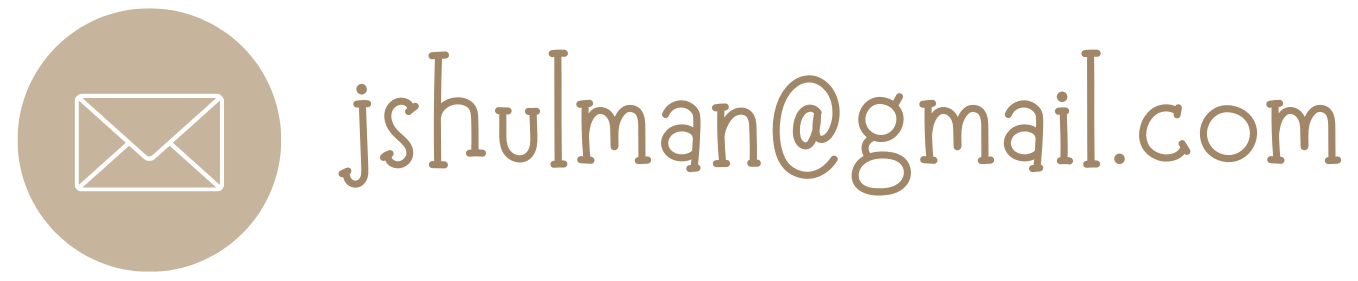
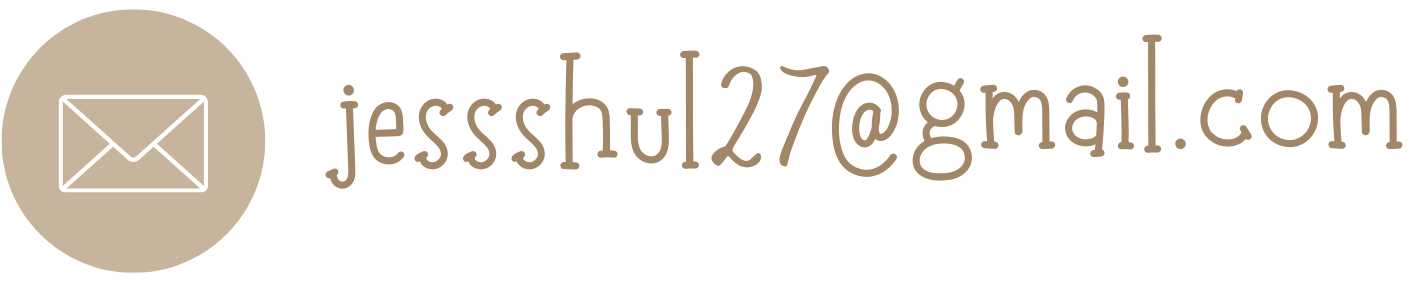
7/14 2AM

Changed region(s): [[0.0, 0.0285, 0.9897, 0.968]]

diff --git a/app/(root)/contact/page.tsx b/app/(root)/contact/page.tsx
@@ -1,19 +1,27 @@
 "use client";
 import Navbar from "@/components/Navbar/Navbar";
 import Image from "next/image";
-import React, { useEffect, useRef, useState, memo } from "react";
+import React, {
+  useEffect,
+  useRef,
+  useState,
+  memo,
+  forwardRef,
+  LegacyRef,
+} from "react";
 import appData from "../../../app-data.json";
 import "./contact.css";
 
-const SVGAnimation = memo(() => {
-  const htmlContent = `
+const SVGAnimation = memo(
+  forwardRef((props, ref) => {
+    const htmlContent = `
   <?xml version="1.0" encoding="UTF-8" standalone="no"?>
 <!DOCTYPE svg PUBLIC "-//W3C//DTD SVG 1.1//EN" "http://www.w3.org/Graphics/SVG/1.1/DTD/svg11.dtd">
 <svg class="hi_there" height="100%" stroke-miterlimit="10" style="fill-rule:nonzero;clip-rule:evenodd;stroke-linecap:round;stroke-linejoin:round;" version="1.1" viewBox="0 0 5000 5000" width="100%" xml:space="preserve" xmlns="http://www.w3.org/2000/svg" xmlns:vectornator="http://vectornator.io" xmlns:xlink="http://www.w3.org/1999/xlink">
 <defs/>
 <g id="Layer-1" vectornator:layerName="Layer 1">
 <path id="svg_hi" d="M245.343 2480.88C245.343 2480.88 414.584 2240.8 481.391 2083.67C548.199 1926.54 527.84 1851.55 512.792 1840.99C497.743 1830.42 414.101 1806.2 296.633 2194.79C231.114 2411.54 234.237 2703.69 234.237 2703.69C234.237 2703.69 328.088 2349.14 473.212 2348.19C618.337 2347.25 412.404 2703.93 599.315 2718.15C658.82 2722.68 743.713 2688.65 818.725 2583.34C891.648 2480.96 913.379 2315.81 913.379 2315.81C913.379 2315.81 871.372 2480.6 888.465 2594.85C900.726 2676.8 956.039 2723.31 1020.41 2708.19C1174.52 2671.99 1266.39 2493.91 1266.39 2493.91" fill="none" opacity="1" stroke="#ffffff" stroke-linecap="round" stroke-linejoin="round" stroke-width="45" vectornator:layerName="Line 1"/>
-<path id="svg_there" d="M1764.67 2483.79C1764.67 2483.79 1949.34 2233.27 2012.59 2071.63C2075.85 1909.99 2061.17 1824.62 2012.07 1833.3C1962.97 1841.99 1858.66 2045.56 1801.86 2284.7C1745.07 2523.84 1738.91 2714.24 1879.4 2710.04C2048.88 2704.98 2233.56 2355.09 2322.21 2198.45C2432.38 2003.78 2453.67 1853.29 2403.73 1836.13C2353.79 1818.98 2267.93 1951.27 2192.83 2220.81C2117.72 2490.34 2134.57 2705.18 2134.57 2705.18C2134.57 2705.18 2231.46 2335.88 2377.5 2349.37C2523.53 2362.86 2312.33 2690.29 2487.3 2715.56C2662.28 2740.83 2766.96 2497.14 2789.1 2446.95C2798.52 2425.59 2850.47 2327.55 2952 2332.44C3033.91 2336.38 3097.04 2432.76 2983.67 2494.31C2918.26 2529.82 2863.22 2490.65 2863.22 2490.65C2863.22 2490.65 2916.16 2525.7 2981.1 2499.71C3028.79 2480.62 3105.1 2368.17 2959.13 2335.37C2899.06 2321.87 2815.86 2397.27 2786.95 2456.17C2766.6 2497.63 2698.4 2716.49 2999.7 2710.27C3132.65 2707.52 3317.23 2539.32 3319.98 2342.66C3320.74 2288.84 3349.04 2327.46 3406.33 2337.67C3463.62 2347.87 3494.92 2326.89 3475.26 2362.49C3453.17 2402.49 3391.29 2470.32 3378.85 2529.65C3353.84 2648.92 3424.85 2727.98 3511.19 2703.48C3597.54 2678.98 3693.55 2570.41 3748.03 2431.71C3765.36 2387.59 3829.87 2316.86 3906.5 2323.5C3983.13 2330.14 4047.27 2410.14 3949.33 2480.36C3882.05 2528.59 3820.78 2482.4 3820.78 2482.4C3820.78 2482.4 3886.09 2530.02 3949.96 2477.32C4084.82 2366.05 3906.66 2322.28 3906.66 2322.28C3818.81 2323.66 31060.99 2390.04 3753.17 2422.12C3715.58 2503.47 3680.02 2661.41 3881.73 2704.95C4095.37 2751.06 4248.9 2495.81 4248.9 2495.81" fill="none" opacity="1" stroke="#ffffff" stroke-linecap="round" stroke-linejoin="round" stroke-width="45" vectornator:layerName="Line 3"/>
+<path id="svg_there" d="M1764.67 2483.79C1764.67 2483.79 1949.34 2233.27 2012.59 2071.63C2075.85 1909.99 2061.17 1824.62 2012.07 1833.3C1962.97 1841.99 1858.66 2045.56 1801.86 2284.7C1745.07 2523.84 1738.91 2714.24 1879.4 2710.04C2048.88 2704.98 2233.56 2355.09 2322.21 2198.45C2432.38 2003.78 2453.67 1853.29 2403.73 1836.13C2353.79 1818.98 2267.93 1951.27 2192.83 2220.81C2117.72 2490.34 2134.57 2705.18 2134.57 2705.18C2134.57 2705.18 2231.46 2335.88 2377.5 2349.37C2523.53 2362.86 2312.33 2690.29 2487.3 2715.56C2662.28 2740.83 2766.96 2497.14 2789.1 2446.95C2798.52 2425.59 2850.47 2327.55 2952 2332.44C3033.91 2336.38 3097.04 2432.76 2983.67 2494.31C2918.26 2529.82 2863.22 2490.65 2863.22 2490.65C2863.22 2490.65 2916.16 2525.7 2981.1 2499.71C3028.79 2480.62 3105.1 2368.17 2959.13 2335.37C2899.06 2321.87 2815.86 2397.27 2786.95 2456.17C2766.6 2497.63 2698.4 2716.49 2999.7 2710.27C3132.65 2707.52 3317.23 2539.32 3319.98 2342.66C3320.74 2288.84 3349.04 2327.46 3406.33 2337.67C3463.62 2347.87 3494.92 2326.89 3475.26 2362.49C3453.17 2402.49 3391.29 2470.32 3378.85 2529.65C3353.84 2648.92 3424.85 2727.98 3511.19 2703.48C3597.54 2678.98 3693.55 2570.41 3748.03 2431.71C3765.36 2387.59 3829.87 2316.86 3906.5 2323.5C3983.13 2330.14 4047.27 2410.14 3949.33 2480.36C3882.05 2528.59 3820.78 2482.4 3820.78 2482.4C3820.78 2482.4 3886.09 2530.02 3949.96 2477.32C4084.82 2366.05 3906.66 2322.28 3906.66 2322.28C3818.81 2323.66 3767.99 2390.04 3753.17 2422.12C3715.58 2503.47 3680.02 2661.41 3881.73 2704.95C4095.37 2751.06 4248.9 2495.81 4248.9 2495.81" fill="none" opacity="1" stroke="#ffffff" stroke-linecap="round" stroke-linejoin="round" stroke-width="45" vectornator:layerName="Line 3"/>
 
 <path id="svg_i" d="M932.008 2195.15C932.008 2195.15 938.94 2179.88 935.365 2176.77C933.457 2175.11 914.548 2184.19 913.869 2195.21C913.484 2201.46 929.104 2198.49 929.104 2198.49" fill="none" opacity="1" stroke="#ffffff" stroke-linecap="round" stroke-linejoin="round" stroke-width="45" vectornator:layerName="Line 2"/>
 <path id="svg_ex" d="M4557.38 1891.6L4381.46 2525.95" fill="none" opacity="1" stroke="#ffffff" stroke-linecap="round" stroke-linejoin="round" stroke-width="45" vectornator:layerName="Line 4"/>
@@ -24,56 +32,24 @@ const SVGAnimation = memo(() => {
 </svg>
 `;
 
-  return (
-    // <div
-    //   style={{
-    //     zIndex: 101,
-    //     position: "absolute",
-    //     justifyContent: "center",
-    //     alignItems: "center",
-    //     width: "100vw",
-    //     height: "calc(100vh - 60px)",
-    //     top: "60px",
-    //   }}
-    //   dangerouslySetInnerHTML={{ __html: htmlContent }}
-    // />
-
-    <div
-      style={{
-        zIndex: 101,
-        position: "absolute",
-        justifyContent: "center",
-        alignItems: "center",
-        width: "100vw",
-        height: "calc(100vh - 60px)",
-        top: "60px",
-      }}
-    >
+    return (
       <div
-        // ref={hiThereRef}
+        ref={ref as LegacyRef<HTMLDivElement>}
         style={{
-          transition: "1.5s ease",
-          overflow: "visible",
+          width: "100%",
+          transition: "none",
+          minWidth: "530px",
+          minHeight: "530px",
           display: "flex",
-          width: "100vw",
+          alignItems: "center",
+          justifyContent: "center",
+          marginTop: 0,
         }}
-      >
-        <div
-          style={{
-            zIndex: 101,
-            position: "absolute",
-            justifyContent: "center",
-            alignItems: "center",
-            width: "100vw",
-            height: "calc(100vh - 60px)",
-            top: "60px",
-          }}
-          dangerouslySetInnerHTML={{ __html: htmlContent }}
-        />
-      </div>
-    </div>
-  );
-});
+        dangerouslySetInnerHTML={{ __html: htmlContent }}
+      ></div>
+    );
+  })
+);
 
 const Contact = () => {
   const bgRef = useRef<HTMLDivElement>(null);
@@ -88,11 +64,18 @@ const Contact = () => {
   const emailButtonRef = useRef<HTMLDivElement>(null);
   const locationButtonRef = useRef<HTMLDivElement>(null);
   const sendButtonRef = useRef<HTMLDivElement>(null);
+  
   useEffect(() => {
+    if (hiThereRef.current) {
+      if (window.innerWidth < 1024) {
+        hiThereRef.current.style.marginTop = "-36vh"
+      }
+    }
     setTimeout(() => {
-      if (bgRef.current && cardContainerRef.current && cardRef.current) {
+      if (bgRef.current && cardContainerRef.current && cardRef.current && hiThereRef.current) {
         bgRef.current.style.opacity = "1";
-        if (window.innerWidth < 1060) {
+        hiThereRef.current.style.transition = "1.5s ease"
+        if (window.innerWidth < 1024) {
           cardContainerRef.current.style.width = "100vw";
           cardContainerRef.current.style.marginLeft = "0";
           cardRef.current.style.transition = "1.5s ease";
@@ -103,7 +86,6 @@ const Contact = () => {
         setTimeout(() => {
           if (bgRef.current && hiThereRef.current) {
             bgRef.current.style.margin = "0";
-            hiThereRef.current.style.marginTop = "-15px";
             bgRef.current.style.width = "100vw";
             bgRef.current.style.height = "100%";
             setTimeout(() => {
@@ -116,12 +98,12 @@ const Contact = () => {
               ) {
                 containerRef.current.style.backgroundColor = "#E3DACF";
                 cardRef.current.style.opacity = "1";
-                if (window.innerWidth > 1060) {
+                if (window.innerWidth > 1024) {
                   gradientRef.current.style.marginLeft = "50vw";
                   bgRef.current.style.width = "50vw";
                   hiThereRef.current.style.width = "50vw";
                 } else {
-                  hiThereRef.current.style.marginTop = "-60px";
+                  hiThereRef.current.style.marginTop = "calc(-56vw - 70px)"
                   cardRef.current.style.marginTop = "40px";
                 }
               }
@@ -159,7 +141,7 @@ const Contact = () => {
 
   useEffect(() => {
     const handleResize = () => {
-      if (window.innerWidth > 1060) {
+      if (window.innerWidth > 1024) {
         if (
           bgRef.current &&
           bgRef.current.style.width === "100vw" &&
@@ -169,9 +151,9 @@ const Contact = () => {
         ) {
           bgRef.current.style.width = "50vw";
           hiThereRef.current.style.width = "50vw";
+          hiThereRef.current.style.marginTop = "0"
           cardContainerRef.current.style.width = "50vw";
           cardContainerRef.current.style.marginLeft = "50vw";
-          cardRef.current.style.marginTop = "0";
           cardRef.current.style.width = "calc(50vw - 60px)";
         }
       } else {
@@ -184,6 +166,7 @@ const Contact = () => {
         ) {
           bgRef.current.style.width = "100vw";
           hiThereRef.current.style.width = "100vw";
+          hiThereRef.current.style.marginTop = "calc(-56vw - 70px)"
           cardContainerRef.current.style.width = "100vw";
           cardContainerRef.current.style.marginLeft = "0";
           cardRef.current.style.marginTop = "40px";
@@ -214,7 +197,7 @@ const Contact = () => {
   };
 
   const handleSendNewEmailClick = () => {
-    const sendEmail = "jshulman@gmail.com";
+    const sendEmail = "jessshul27@gmail.com";
     window.location.href = `mailto:${sendEmail}`;
   };
 
@@ -225,8 +208,21 @@ const Contact = () => {
   return (
     <>
       <Navbar />
+      <div
+        className="flex lg:block"
+        style={{
+          zIndex: 101,
+          position: "absolute",
+          width: "100vw",
+          height: "calc(100vh - 60px)",
+          top: "60px",
+          alignItems: "center",
+          justifyContent: "center",
+        }}
+      >
+        <SVGAnimation ref={hiThereRef} />
+      </div>
 
-      <SVGAnimation />
       <div
         ref={containerRef}
         style={{
@@ -282,7 +278,7 @@ const Contact = () => {
                 width: "31%",
                 height: "8%",
                 position: "absolute",
-                bottom: "13.8%",
+                bottom: "13.6%",
                 left: "6.6%",
                 cursor: "pointer",
                 zIndex: 100,
@@ -307,7 +303,7 @@ const Contact = () => {
                 width: "31%",
                 height: "8%",
                 position: "absolute",
-                bottom: "13.8%",
+                bottom: "13.6%",
                 left: "41.6%",
                 cursor: "pointer",
                 zIndex: 100,
@@ -331,7 +327,7 @@ const Contact = () => {
                 width: "18%",
                 height: "8%",
                 position: "absolute",
-                bottom: "12.5%",
+                bottom: "13.6%",
                 right: "6%",
                 cursor: "pointer",
                 zIndex: 100,

diff --git a/components/Navbar/Navbar.tsx b/components/Navbar/Navbar.tsx
@@ -22,22 +22,22 @@ const Navbar = () => {
   const [currentRoute, setCurrentRoute] = useState("/");
   const router = usePathname()
 
-  // useEffect(() => {
-  //   setCurrentRoute(router)
-  // }, [router])
+  useEffect(() => {
+    setCurrentRoute(router)
+  }, [router])
 
-  // useEffect(() => {
-  //   const handleNavResize = () => {
-  //     if (window.innerWidth >= 760) {
-  //       closeIsOpen(false)
-  //     }
-  //   };
+  useEffect(() => {
+    const handleNavResize = () => {
+      if (window.innerWidth >= 760) {
+        closeIsOpen(false)
+      }
+    };
 
-  //   window.addEventListener('resize', handleNavResize); // Fix typo here
-  //   return () => {
-  //     window.removeEventListener('resize', handleNavResize);
-  //   };
-  // }, []);
+    window.addEventListener('resize', handleNavResize); // Fix typo here
+    return () => {
+      window.removeEventListener('resize', handleNavResize);
+    };
+  }, []);
 
   function closeIsOpen(newVal: boolean) {
     if (newVal) {
